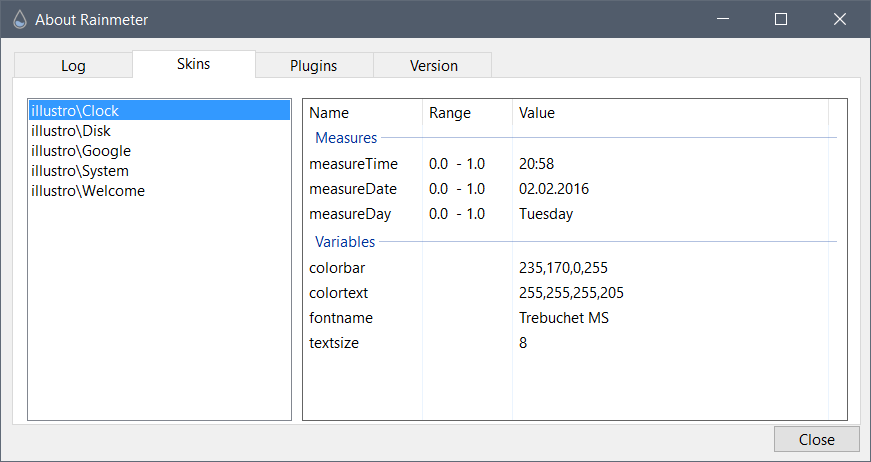
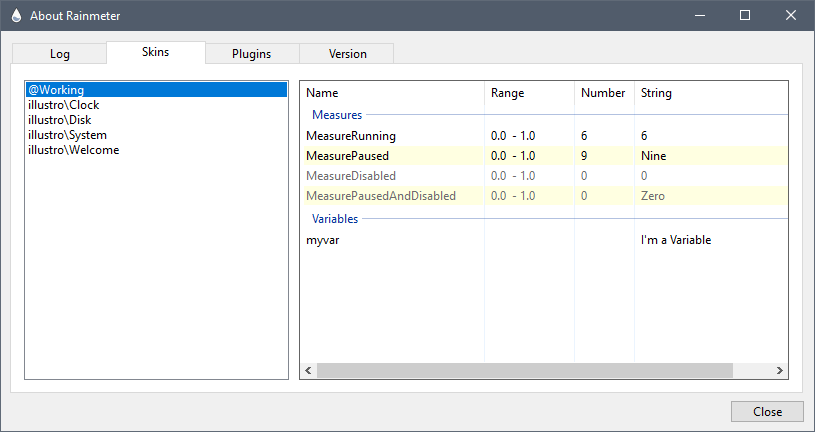
Updated User Interface for the Skins panel. Also added a couple of classes to the css for grayscale and yellow background.

diff --git a/source/manual-beta/user-interface/about.html b/source/manual-beta/user-interface/about.html
@@ -52,13 +52,16 @@ title: 'About'
 <img src="!img/user-interface/About02.png" class="lightbox">
 </div>
 
-<p>Extremely powerful tool displaying real-time information about currently active skins. The tab displays a list of currently active skin <a href="!skins/#Config">config</a> names in the panel on the left. Selecting one from the list will update important information about the skin in real time, in the panel on the right.</p>
+<p>Extremely powerful tool displaying real-time information about currently active skins. The tab displays a list of currently active skin <a href="!skins/#Config">config</a> names in the panel on the left. Selecting one from the list will display important information about the skin in real time, in the panel on the right.</p>
 
 <ul>
 <li><b>Measures</b>: Information about <a href="!measures/">measures</a> in the selected skin.<br>&nbsp;<br>
 <b>Name</b> - The name of the measure.<br>
 <b>Range</b> - The current <a href="!measures/general-options/#MinValue">MinValue</a> and <a href="!measures/general-options/#MaxValue">MaxValue</a> values for the measure, expressed as a range of values.<br>
-<b>Value</b> - The current <a href="!measures/#Values">string value</a> of the measure. Select a line and hit <b>CTRL-C</b> to copy the value to the Windows clipboard.<br>&nbsp;</li>
+<b>Number</b> - The current <a href="!measures/#Values">number value</a> of the measure.<br>
+<b>String</b> - The current <a href="!measures/#Values">string value</a> of the measure. Select a line and hit <b>CTRL-C</b> to copy the displayed string value to the Windows clipboard.<br><br>
+The line will reflect the current <a href="!measures/general-options/#Disabled">Disabled</a> or <a href="!measures/general-options/#Paused">Paused</a> state of the measure using color highlighting, with <span class="grayscale">disabled measures grayed out</span>, and <span class="yellowback">paused measures having a yellow background</span>.<br><br>
+The number or string values may be separately copied to the Windows clipboard by right clicking the line. Note that while the information displayed in the panel is limited to 512 characters, the entire measure value will be copied when using this method.<br>&nbsp;</li>
 
 <li><b>Variables</b>: Information about <a href="!variables/">variables</a> in the selected skin.<br>&nbsp;<br>
 <b>Name</b> - The name of the variable.<br>

diff --git a/source/css/main.css b/source/css/main.css
@@ -939,3 +939,15 @@ table#quickjump td {
 	cursor: pointer;
 	font-weight: bold;
 }
+
+/*
+** Various color settings
+*/
+
+.grayscale { 
+    color: #9E9E9E;
+  }
+  
+.yellowback {
+	 background-color: #FFFFE1;
+   }
